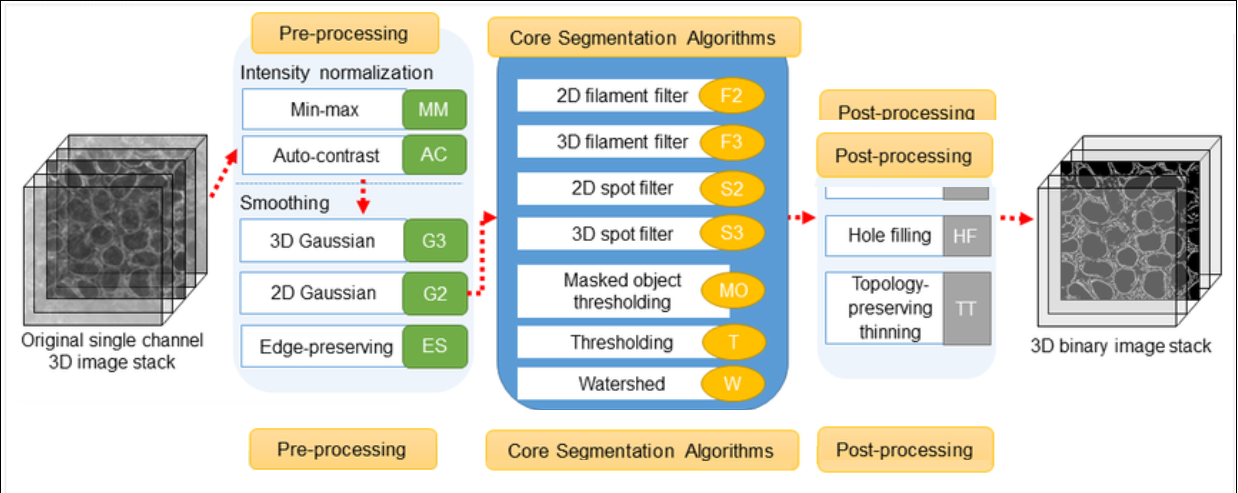
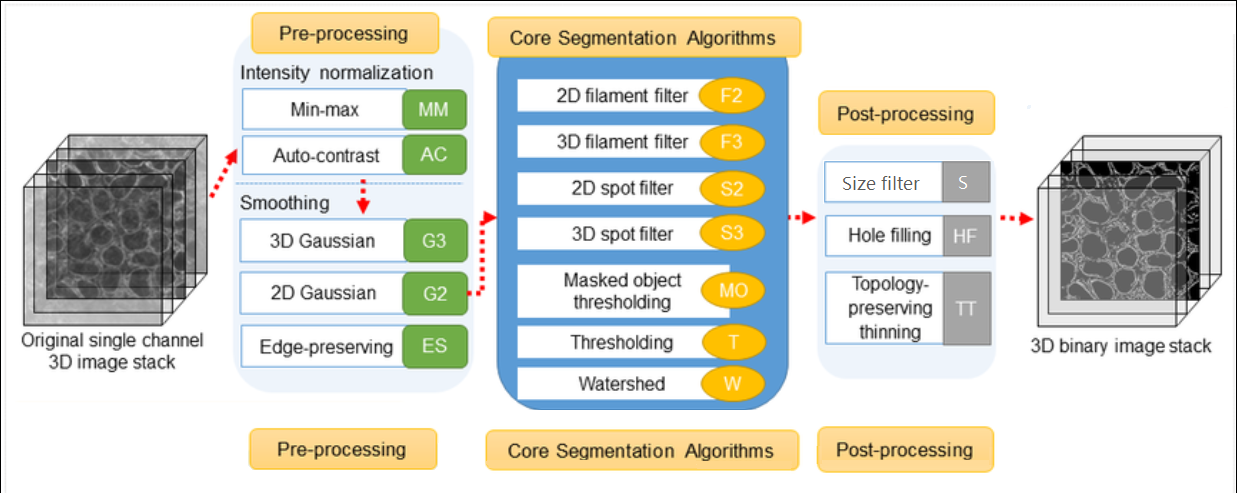
Edited screenshot & expanded content.

Changed region(s): [[0.6446, 0.1826, 0.8288, 0.426]]

diff --git a/content/workflow/allencell.md b/content/workflow/allencell.md
@@ -41,7 +41,32 @@ Once segmentation is completed, Allen Cell outputs a segmented mask which can be
 Beyond these basic functions, Allen Cell Segmenter also has an **[iterative deep-learning](https://www.youtube.com/watch?v=W1DPfZk5iF8&t=8s)** component based on user-trained pixel classification (which is not within the scope of this lesson).
 :::
 
-## Demo of *Allen Cell Segmenter*
+## Demo of *Allen Cell Segmenter*  
+The following video demonstrates how to use the Allen Cell Segmenter plugin.  
+
+**Note:** To change the speed of the video, click the cog wheel in the lower right corner, then *speed*, and select the desired speed. 
+
+The basic steps are:
+- Drag and drop your image into napari.  
+- Use the slider bar at the bottom of the screen to choose the part of the image to examine. 
+- Ensure you have already installed the napari-allencell-segmenter plugin. 
+- Load the napari-allencell-segmenter plugin.  
+(**Plugins**>**napari-allencell-segmenter**>**Workflow editor**)  
+A panel appears on the right side of the screen with a selection of images. 
+- Change option 2 to *Channel 0*.
+- Choose the image that most closely matches the one you are examining. The panel now shows options for **Preprocessing**, **Core**, and **Postprocessing**.  
+  - Preprocessing  
+    1. Intensity Normalization - select scaling_param 1 and scaling_param 2.    
+      2. Edge Preserving Smoothing - no parameters needed. 
+  - Core  
+      3. Filament Filter 3D  
+      - sigmas  
+      - cutoff
+  - Postprocessing  
+      4. Size Filter  
+      - min_size  
+      - method  
+  - You can run your workflow and then save it. 
 
 <center><script src="https://fast.wistia.com/embed/medias/388imsy9td.jsonp" async></script><script src="https://fast.wistia.com/assets/external/E-v1.js" async></script><div class="wistia_responsive_padding" style="padding:56.25% 0 0 0;position:relative;"><div class="wistia_responsive_wrapper" style="height:100%;left:0;position:absolute;top:0;width:100%;"><div class="wistia_embed wistia_async_388imsy9td seo=false videoFoam=true" style="height:100%;position:relative;width:100%"><div class="wistia_swatch" style="height:100%;left:0;opacity:0;overflow:hidden;position:absolute;top:0;transition:opacity 200ms;width:100%;"><img src="https://fast.wistia.com/embed/medias/388imsy9td/swatch" style="filter:blur(5px);height:100%;object-fit:contain;width:100%;" alt="" aria-hidden="true" onload="this.parentNode.style.opacity=1;" /></div></div></div></div></center>
 
